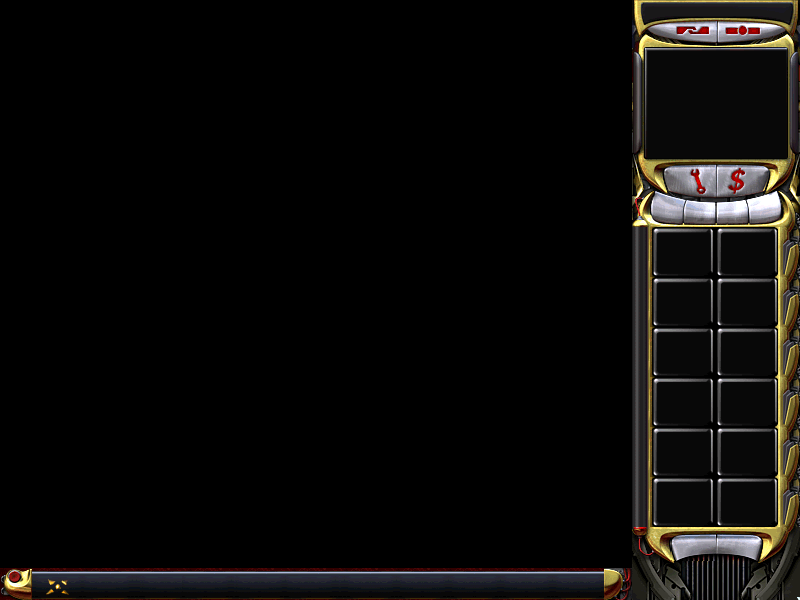
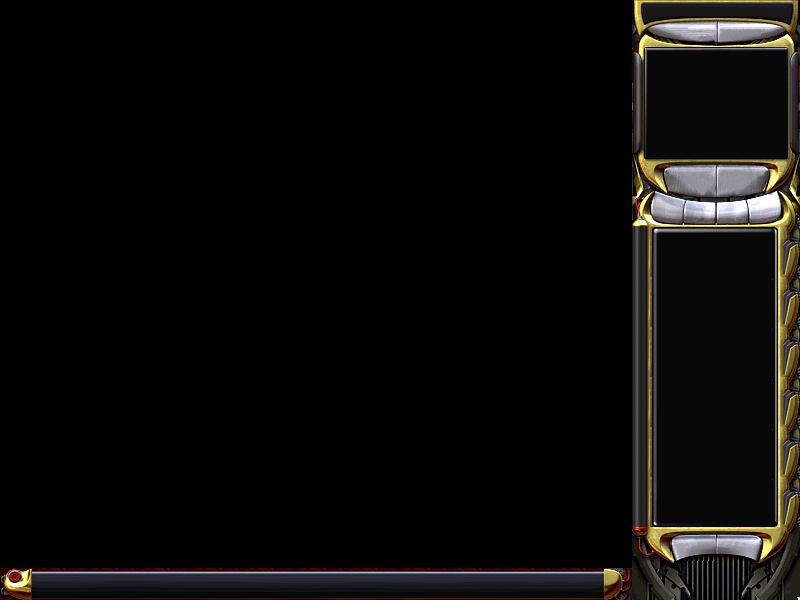
Updated undo and defend buttons and other images.

diff --git a/src/main/resources/style/main.css b/src/main/resources/style/main.css
@@ -1,0 +1,21 @@
+.button {
+    -fx-border-color: transparent;
+    -fx-border-width: 0;
+    -fx-background-radius: 0;
+    -fx-background-color: transparent;
+    -fx-font-size: 1em;
+    -fx-text-fill: #828282;
+}
+
+.button:focused {
+    -fx-border-width: 1, 1;
+    -fx-border-radius: 0, 0;
+    -fx-border-insets: 1 1 1 1, 0;
+}
+
+.button:pressed {
+    -fx-border-color: transparent;
+    -fx-border-width: 0;
+    -fx-background-radius: 0;
+    -fx-background-color: transparent;
+}

diff --git a/src/main/java/oosd/views/components/panes/ToolbarPane.java b/src/main/java/oosd/views/components/panes/ToolbarPane.java
@@ -4,11 +4,17 @@ import javafx.scene.control.Button;
 import javafx.scene.layout.HBox;
 import oosd.controllers.GameController;
 import oosd.models.GameEngine;
+import oosd.views.components.images.DefendButtonImage;
+import oosd.views.components.images.UndoButtonImage;
 import oosd.views.handlers.UndoClickHandler;
 
 public class ToolbarPane extends HBox {
     public void initialise(GameEngine gameEngine, GameController gameController) {
         Button undoButton = (Button) this.lookup("#undoButton");
         undoButton.setOnMouseClicked(new UndoClickHandler(gameEngine, gameController));
+        undoButton.setGraphic(new UndoButtonImage());
+        Button defendButton = (Button) this.lookup("#defendButton");
+        defendButton.setOnMouseClicked(new UndoClickHandler(gameEngine, gameController));
+        defendButton.setGraphic(new DefendButtonImage());
     }
 }

diff --git a/src/main/java/oosd/views/components/windows/GameWindow.java b/src/main/java/oosd/views/components/windows/GameWindow.java
@@ -9,6 +9,7 @@ import oosd.controllers.Controller;
 import oosd.views.View;
 
 import java.io.IOException;
+import java.util.Objects;
 
 /**
  * Design pattern: facade used to abstract window UI build logic.
@@ -35,6 +36,7 @@ public class GameWindow {
         try {
             Pane pane = loader.load();
             Scene content = new Scene(pane, sceneWidth, sceneHeight);
+            content.getStylesheets().add(Objects.requireNonNull(getClass().getClassLoader().getResource("style/main.css")).toString());
 
             primaryStage.setScene(content);
             primaryStage.setTitle(windowTitle);

diff --git a/src/main/java/oosd/views/components/images/DefendButtonImage.java b/src/main/java/oosd/views/components/images/DefendButtonImage.java
@@ -1,0 +1,13 @@
+package oosd.views.components.images;
+
+import javafx.scene.image.Image;
+import javafx.scene.image.ImageView;
+import oosd.views.View;
+
+public class DefendButtonImage extends ImageView {
+    public DefendButtonImage() {
+        this.setFitWidth(20);
+        this.setFitHeight(20);
+        this.setImage(new Image(View.class.getResource("shield.png").toString()));
+    }
+}

diff --git a/src/main/java/oosd/views/components/images/UndoButtonImage.java b/src/main/java/oosd/views/components/images/UndoButtonImage.java
@@ -1,0 +1,13 @@
+package oosd.views.components.images;
+
+import javafx.scene.image.Image;
+import javafx.scene.image.ImageView;
+import oosd.views.View;
+
+public class UndoButtonImage extends ImageView {
+    public UndoButtonImage() {
+        this.setFitWidth(20);
+        this.setFitHeight(20);
+        this.setImage(new Image(View.class.getResource("undo.png").toString()));
+    }
+}

diff --git a/src/main/java/oosd/views/components/images/DefendPieceImage.java b/src/main/java/oosd/views/components/images/DefendPieceImage.java
@@ -10,7 +10,7 @@ public class DefendPieceImage extends ImageView {
         this.setY(38);
         this.setFitWidth(20);
         this.setFitHeight(20);
-        this.setImage(new Image(View.class.getResource("shield_2.png").toString()));
+        this.setImage(new Image(View.class.getResource("shield.png").toString()));
         this.setVisible(false);
     }
 
